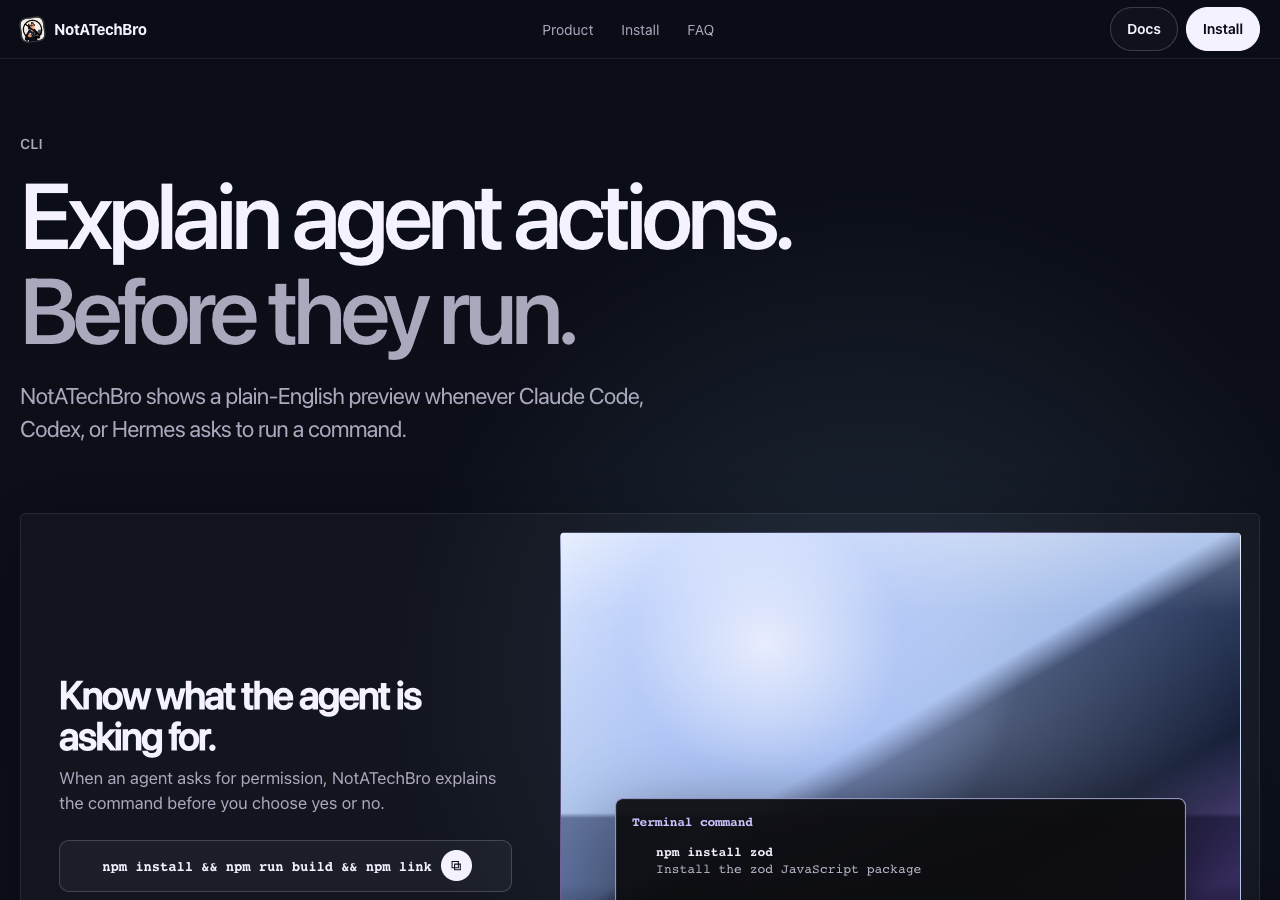
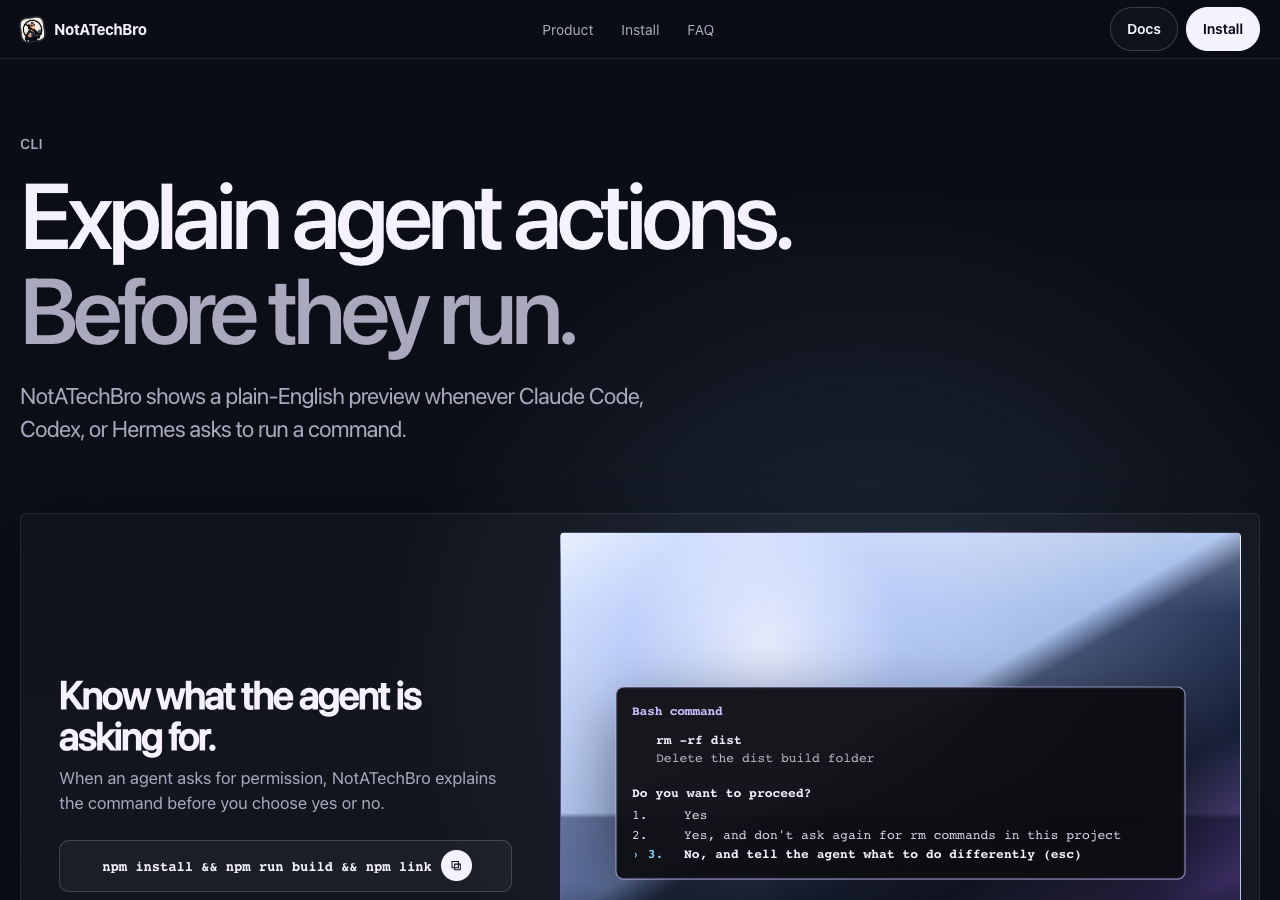
Center landing permission prompt

Changed region(s): [[0.4375, 0.7467, 0.9375, 1.0]]

diff --git a/docs/landing.html b/docs/landing.html
@@ -325,10 +325,11 @@
 
       .permission-prompt {
         position: absolute;
-        right: min(6vw, 54px);
-        bottom: min(5vw, 42px);
-        left: min(6vw, 54px);
+        top: 50%;
+        left: 50%;
         z-index: 3;
+        width: min(calc(100% - 108px), 720px);
+        transform: translate(-50%, -50%);
         overflow: hidden;
         border: 1px solid rgba(201, 195, 255, 0.72);
         border-radius: 8px;
@@ -804,9 +805,7 @@
         }
 
         .permission-prompt {
-          right: 14px;
-          bottom: 16px;
-          left: 14px;
+          width: calc(100% - 28px);
           font-size: 11px;
         }
 